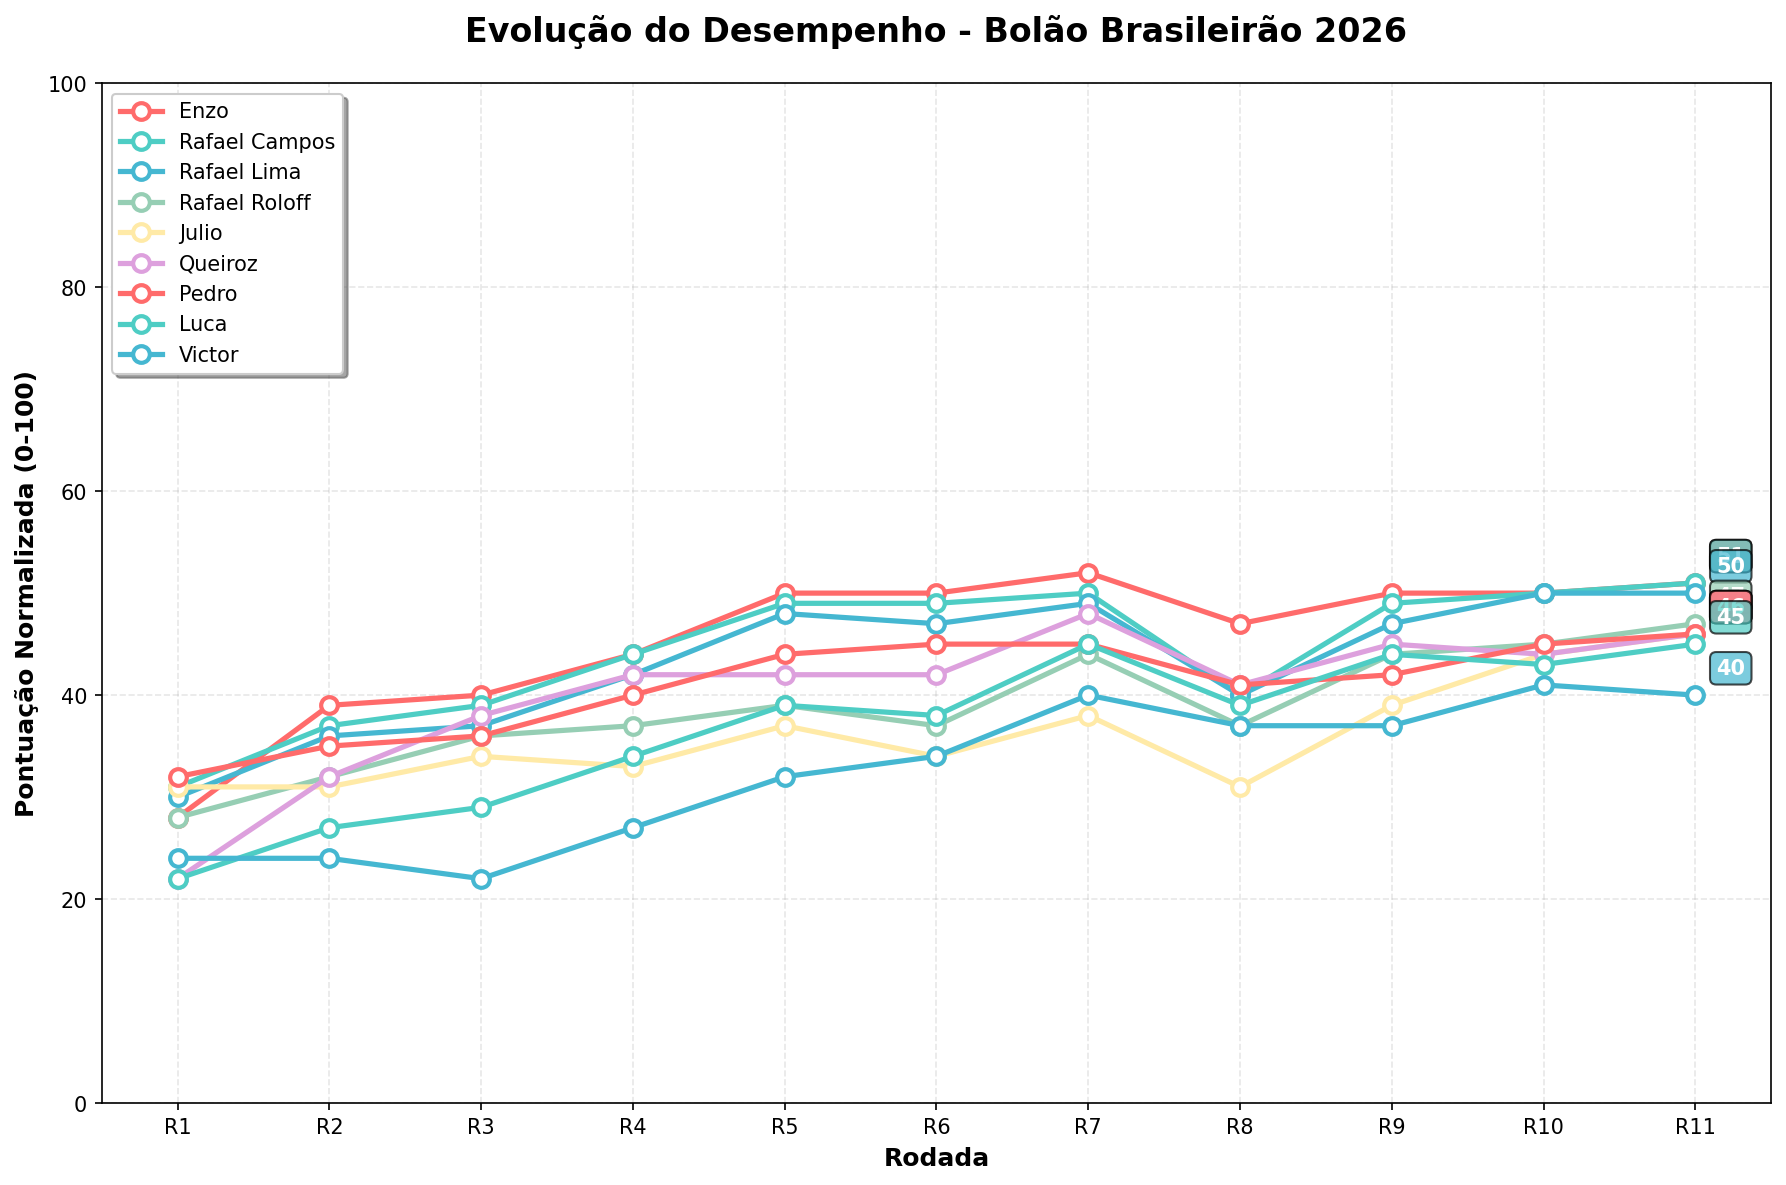
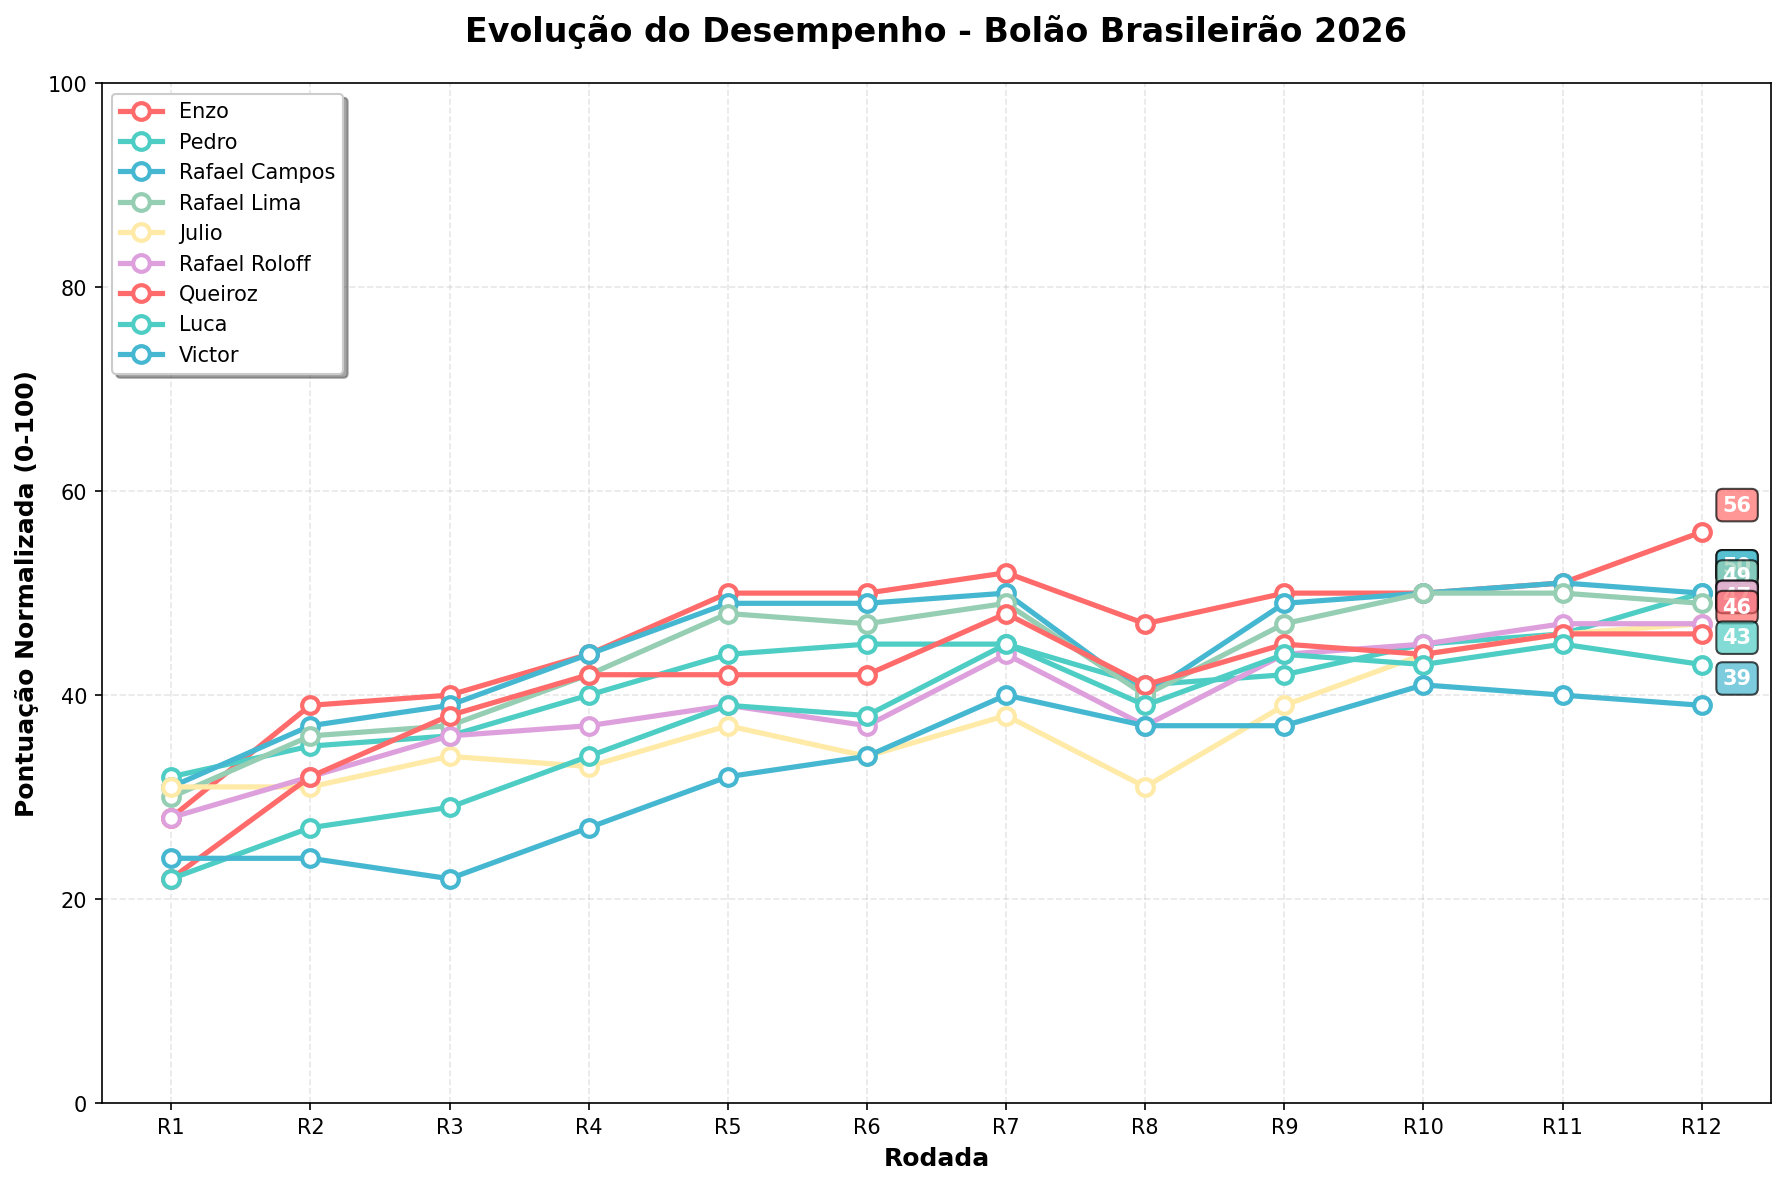
Atualizacao automatica - 20/04/2026 11:00:04,73

diff --git a/README.md b/README.md
@@ -2,70 +2,70 @@
 
 ## 🏆 Resultados Atuais
 
-**Última Atualização:** 2026-04-14 11:00:04
+**Última Atualização:** 2026-04-20 11:00:03
 
-| Time | Real | Enzo | Rafael Campos | Rafael Lima | Rafael Roloff | Julio | Queiroz | Pedro | Luca | Victor |
+| Time | Real | Enzo | Pedro | Rafael Campos | Rafael Lima | Julio | Rafael Roloff | Queiroz | Luca | Victor |
 |------|------|------|------|------|------|------|------|------|------|------|
-| Palmeiras | 1 | 2°(19p) | 3°(18p) | 3°(18p) | 2°(19p) | 2°(19p) | 3°(18p) | 3°(18p) | 3°(18p) | 3°(18p) |
-| Flamengo | 2 | 1°(19p) | 1°(19p) | 1°(19p) | 1°(19p) | 1°(19p) | 1°(19p) | 2°(20p) | 1°(19p) | 1°(19p) |
-| São Paulo | 3 | 16°(7p) | 12°(11p) | 14°(9p) | 16°(7p) | 15°(8p) | 17°(6p) | 15°(8p) | 14°(9p) | 16°(7p) |
-| Fluminense | 4 | 4°(20p) | 7°(17p) | 6°(18p) | 8°(16p) | 7°(17p) | 7°(17p) | 4°(20p) | 8°(16p) | 10°(14p) |
-| Bahia | 5 | 5°(20p) | 4°(19p) | 4°(19p) | 6°(19p) | 5°(20p) | 4°(19p) | 7°(18p) | 5°(20p) | 9°(16p) |
-| Atlético-PR | 6 | 17°(9p) | 17°(9p) | 17°(9p) | 17°(9p) | 17°(9p) | 15°(11p) | 18°(8p) | 17°(9p) | 13°(13p) |
-| Coritiba | 7 | 15°(12p) | 16°(11p) | 16°(11p) | 14°(13p) | 19°(8p) | 12°(15p) | 19°(8p) | 20°(7p) | 20°(7p) |
-| Atlético-MG | 8 | 12°(16p) | 5°(17p) | 5°(17p) | 4°(16p) | 4°(16p) | 9°(19p) | 13°(15p) | 4°(16p) | 2°(14p) |
-| Bragantino | 9 | 6°(17p) | 10°(19p) | 10°(19p) | 13°(16p) | 10°(19p) | 18°(11p) | 9°(20p) | 13°(16p) | 15°(14p) |
-| Vitória | 10 | 18°(12p) | 18°(12p) | 18°(12p) | 18°(12p) | 16°(14p) | 19°(11p) | 17°(13p) | 18°(12p) | 17°(13p) |
-| Botafogo | 11 | 10°(19p) | 9°(18p) | 8°(17p) | 7°(16p) | 6°(15p) | 11°(20p) | 5°(14p) | 11°(20p) | 5°(14p) |
-| Grêmio | 12 | 7°(15p) | 6°(14p) | 7°(15p) | 12°(20p) | 18°(14p) | 5°(13p) | 6°(14p) | 6°(14p) | 4°(12p) |
-| Vasco | 13 | 9°(16p) | 14°(19p) | 15°(18p) | 11°(18p) | 11°(18p) | 10°(17p) | 10°(17p) | 9°(16p) | 12°(19p) |
-| Internacional | 14 | 14°(20p) | 15°(19p) | 13°(19p) | 15°(19p) | 14°(20p) | 14°(20p) | 14°(20p) | 15°(19p) | 6°(12p) |
-| Santos | 15 | 11°(16p) | 13°(18p) | 12°(17p) | 9°(14p) | 12°(17p) | 13°(18p) | 11°(16p) | 7°(12p) | 11°(16p) |
-| Corinthians | 16 | 8°(12p) | 8°(12p) | 9°(13p) | 5°(9p) | 9°(13p) | 6°(10p) | 8°(12p) | 10°(14p) | 8°(12p) |
-| Cruzeiro | 17 | 3°(6p) | 2°(5p) | 2°(5p) | 3°(6p) | 3°(6p) | 2°(5p) | 1°(4p) | 2°(5p) | 7°(10p) |
-| Remo | 18 | 20°(18p) | 20°(18p) | 20°(18p) | 20°(18p) | 13°(15p) | 16°(18p) | 16°(18p) | 16°(18p) | 19°(19p) |
-| Chapecoense | 19 | 19°(20p) | 19°(20p) | 19°(20p) | 19°(20p) | 20°(19p) | 20°(19p) | 20°(19p) | 19°(20p) | 18°(19p) |
-| Mirassol | 20 | 13°(13p) | 11°(11p) | 11°(11p) | 10°(10p) | 8°(8p) | 8°(8p) | 12°(12p) | 12°(12p) | 14°(14p) |
-| **TOTAL** | | **306** | **306** | **304** | **296** | **294** | **294** | **294** | **292** | **282** |
+| Palmeiras | 1 | 2°(19p) | 3°(18p) | 3°(18p) | 3°(18p) | 2°(19p) | 2°(19p) | 3°(18p) | 3°(18p) | 3°(18p) |
+| Flamengo | 2 | 1°(19p) | 2°(20p) | 1°(19p) | 1°(19p) | 1°(19p) | 1°(19p) | 1°(19p) | 1°(19p) | 1°(19p) |
+| Fluminense | 3 | 4°(19p) | 4°(19p) | 7°(16p) | 6°(17p) | 7°(16p) | 8°(15p) | 7°(16p) | 8°(15p) | 10°(13p) |
+| São Paulo | 4 | 16°(8p) | 15°(9p) | 12°(12p) | 14°(10p) | 15°(9p) | 16°(8p) | 17°(7p) | 14°(10p) | 16°(8p) |
+| Bahia | 5 | 5°(20p) | 7°(18p) | 4°(19p) | 4°(19p) | 5°(20p) | 6°(19p) | 4°(19p) | 5°(20p) | 9°(16p) |
+| Atlético-PR | 6 | 17°(9p) | 18°(8p) | 17°(9p) | 17°(9p) | 17°(9p) | 17°(9p) | 15°(11p) | 17°(9p) | 13°(13p) |
+| Coritiba | 7 | 15°(12p) | 19°(8p) | 16°(11p) | 16°(11p) | 19°(8p) | 14°(13p) | 12°(15p) | 20°(7p) | 20°(7p) |
+| Bragantino | 8 | 6°(18p) | 9°(19p) | 10°(18p) | 10°(18p) | 10°(18p) | 13°(15p) | 18°(10p) | 13°(15p) | 15°(13p) |
+| Botafogo | 9 | 10°(19p) | 5°(16p) | 9°(20p) | 8°(19p) | 6°(17p) | 7°(18p) | 11°(18p) | 11°(18p) | 5°(16p) |
+| Vasco | 10 | 9°(19p) | 10°(20p) | 14°(16p) | 15°(15p) | 11°(19p) | 11°(19p) | 10°(20p) | 9°(19p) | 12°(18p) |
+| Vitória | 11 | 18°(13p) | 17°(14p) | 18°(13p) | 18°(13p) | 16°(15p) | 18°(13p) | 19°(12p) | 18°(13p) | 17°(14p) |
+| Atlético-MG | 12 | 12°(20p) | 13°(19p) | 5°(13p) | 5°(13p) | 4°(12p) | 4°(12p) | 9°(17p) | 4°(12p) | 2°(10p) |
+| Grêmio | 13 | 7°(14p) | 6°(13p) | 6°(13p) | 7°(14p) | 18°(15p) | 12°(19p) | 5°(12p) | 6°(13p) | 4°(11p) |
+| Internacional | 14 | 14°(20p) | 14°(20p) | 15°(19p) | 13°(19p) | 14°(20p) | 15°(19p) | 14°(20p) | 15°(19p) | 6°(12p) |
+| Santos | 15 | 11°(16p) | 11°(16p) | 13°(18p) | 12°(17p) | 12°(17p) | 9°(14p) | 13°(18p) | 7°(12p) | 11°(16p) |
+| Cruzeiro | 16 | 3°(7p) | 1°(5p) | 2°(6p) | 2°(6p) | 3°(7p) | 3°(7p) | 2°(6p) | 2°(6p) | 7°(11p) |
+| Corinthians | 17 | 8°(11p) | 8°(11p) | 8°(11p) | 9°(12p) | 9°(12p) | 5°(8p) | 6°(9p) | 10°(13p) | 8°(11p) |
+| Mirassol | 18 | 13°(15p) | 12°(14p) | 11°(13p) | 11°(13p) | 8°(10p) | 10°(12p) | 8°(10p) | 12°(14p) | 14°(16p) |
+| Remo | 19 | 20°(19p) | 16°(17p) | 20°(19p) | 20°(19p) | 13°(14p) | 20°(19p) | 16°(17p) | 16°(17p) | 19°(20p) |
+| Chapecoense | 20 | 19°(19p) | 20°(20p) | 19°(19p) | 19°(19p) | 20°(20p) | 19°(19p) | 20°(20p) | 19°(19p) | 18°(18p) |
+| **TOTAL** | | **316** | **304** | **302** | **300** | **296** | **296** | **294** | **288** | **280** |
 
 ### 🏅 Classificação Atual (pontuação normalizada 0-100)
 
-🥇 **Enzo**: 51 pontos<br>
-🥈 **Rafael Campos**: 51 pontos<br>
-🥉 **Rafael Lima**: 50 pontos<br>
-4. **Rafael Roloff**: 47 pontos<br>
-5. **Julio**: 46 pontos<br>
-6. **Queiroz**: 46 pontos<br>
-7. **Pedro**: 46 pontos<br>
-8. **Luca**: 45 pontos<br>
-9. **Victor**: 40 pontos<br>
+🥇 **Enzo**: 56 pontos<br>
+🥈 **Pedro**: 50 pontos<br>
+🥉 **Rafael Campos**: 50 pontos<br>
+4. **Rafael Lima**: 49 pontos<br>
+5. **Julio**: 47 pontos<br>
+6. **Rafael Roloff**: 47 pontos<br>
+7. **Queiroz**: 46 pontos<br>
+8. **Luca**: 43 pontos<br>
+9. **Victor**: 39 pontos<br>
 
 ### 📈 Histórico de Desempenho
 
 ![Gráfico de Performance](performance_chart.png)
 
-| Rodada | Enzo | Rafael Campos | Rafael Lima | Rafael Roloff | Julio | Queiroz | Pedro | Luca | Victor |
+| Rodada | Enzo | Pedro | Rafael Campos | Rafael Lima | Julio | Rafael Roloff | Queiroz | Luca | Victor |
 |-------|-------|-------|-------|-------|-------|-------|-------|-------|-------|
-| R2 | 39 | 37 | 36 | 32 | 31 | 32 | 35 | 27 | 24 |
-| R3 | 40 | 39 | 37 | 36 | 34 | 38 | 36 | 29 | 22 |
-| R4 | 44 | 44 | 42 | 37 | 33 | 42 | 40 | 34 | 27 |
-| R5 | 50 | 49 | 48 | 39 | 37 | 42 | 44 | 39 | 32 |
-| R6 | 50 | 49 | 47 | 37 | 34 | 42 | 45 | 38 | 34 |
-| R7 | 52 | 50 | 49 | 44 | 38 | 48 | 45 | 45 | 40 |
-| R8 | 47 | 40 | 40 | 37 | 31 | 41 | 41 | 39 | 37 |
-| R9 | 50 | 49 | 47 | 44 | 39 | 45 | 42 | 44 | 37 |
-| R10 | 50 | 50 | 50 | 45 | 44 | 44 | 45 | 43 | 41 |
-| R11 | 51 | 51 | 50 | 47 | 46 | 46 | 46 | 45 | 40 |
+| R3 | 40 | 36 | 39 | 37 | 34 | 36 | 38 | 29 | 22 |
+| R4 | 44 | 40 | 44 | 42 | 33 | 37 | 42 | 34 | 27 |
+| R5 | 50 | 44 | 49 | 48 | 37 | 39 | 42 | 39 | 32 |
+| R6 | 50 | 45 | 49 | 47 | 34 | 37 | 42 | 38 | 34 |
+| R7 | 52 | 45 | 50 | 49 | 38 | 44 | 48 | 45 | 40 |
+| R8 | 47 | 41 | 40 | 40 | 31 | 37 | 41 | 39 | 37 |
+| R9 | 50 | 42 | 49 | 47 | 39 | 44 | 45 | 44 | 37 |
+| R10 | 50 | 45 | 50 | 50 | 44 | 45 | 44 | 43 | 41 |
+| R11 | 51 | 46 | 51 | 50 | 46 | 47 | 46 | 45 | 40 |
+| R12 | 56 | 50 | 50 | 49 | 47 | 47 | 46 | 43 | 39 |
 
 **Tendência (últimas 2 medições):**
-- **Enzo**: 📈 +1
-- **Rafael Campos**: 📈 +1
-- **Rafael Lima**: ➡️ =0
-- **Rafael Roloff**: 📈 +2
-- **Julio**: 📈 +2
-- **Queiroz**: 📈 +2
-- **Pedro**: 📈 +1
-- **Luca**: 📈 +2
+- **Enzo**: 📈 +5
+- **Pedro**: 📈 +4
+- **Rafael Campos**: 📉 -1
+- **Rafael Lima**: 📉 -1
+- **Julio**: 📈 +1
+- **Rafael Roloff**: ➡️ =0
+- **Queiroz**: ➡️ =0
+- **Luca**: 📉 -2
 - **Victor**: 📉 -1
 
 ## 🎯 Sistema de Pontuação